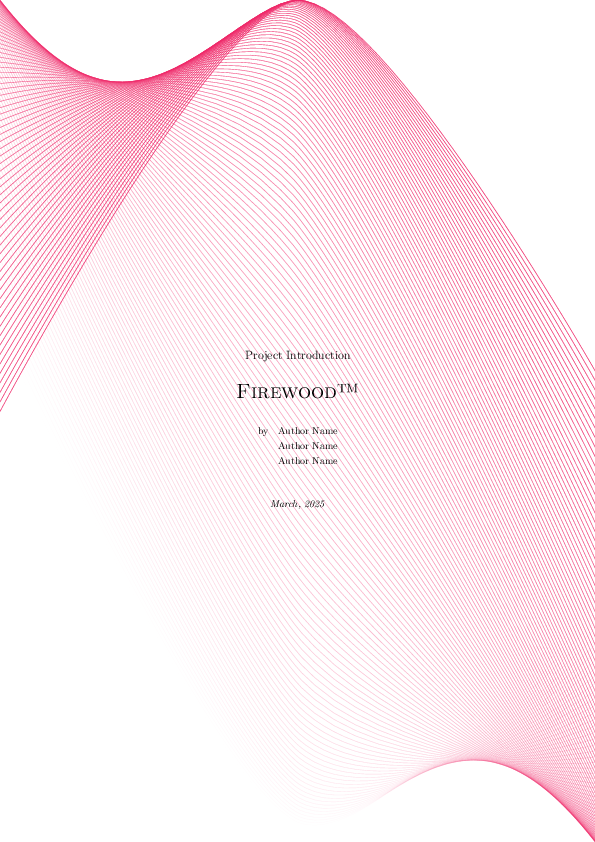
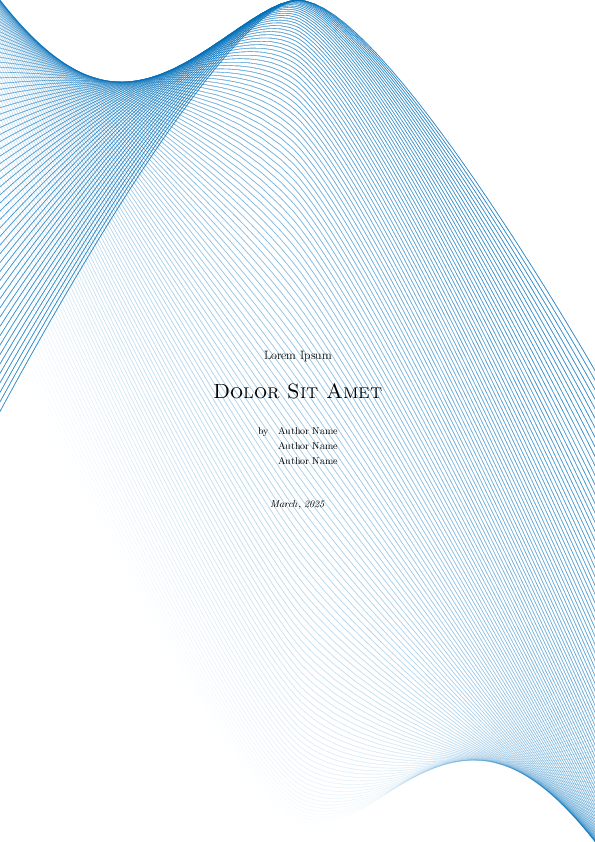
Modify `waves` theme

Changed region(s): [[0.0, 0.0, 1.0, 1.0]]

diff --git a/waves.tex b/waves.tex
@@ -1,6 +1,6 @@
 \input{common.tex}
 
-\newcommand{\frontwavecolor}{WildStrawberry}
+\newcommand{\frontwavecolor}{NavyBlue}
 \newcommand{\frontphasecount}{130}
 \newcommand{\frontsamples}{3}
 \newcommand{\frontinitialphase}{0}
@@ -17,8 +17,8 @@
 	\end{tikzpicture}
 	\vspace*{\fill}
 	\begin{center}
-		\large Project Introduction \\[\baselineskip]
-		\huge \textsc{Firewood\texttrademark}
+		\large Lorem Ipsum \\[\baselineskip]
+		\huge \textsc{Dolor Sit Amet}
 	\end{center}
 	\vspace{.5\baselineskip}
 	\begin{align*}
